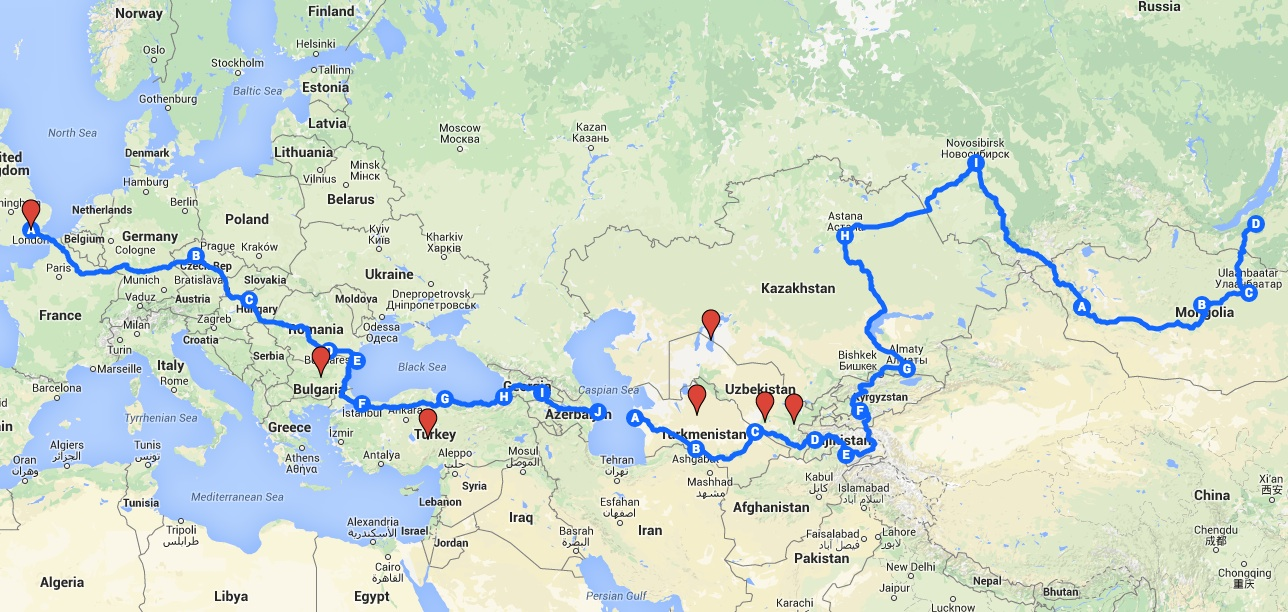
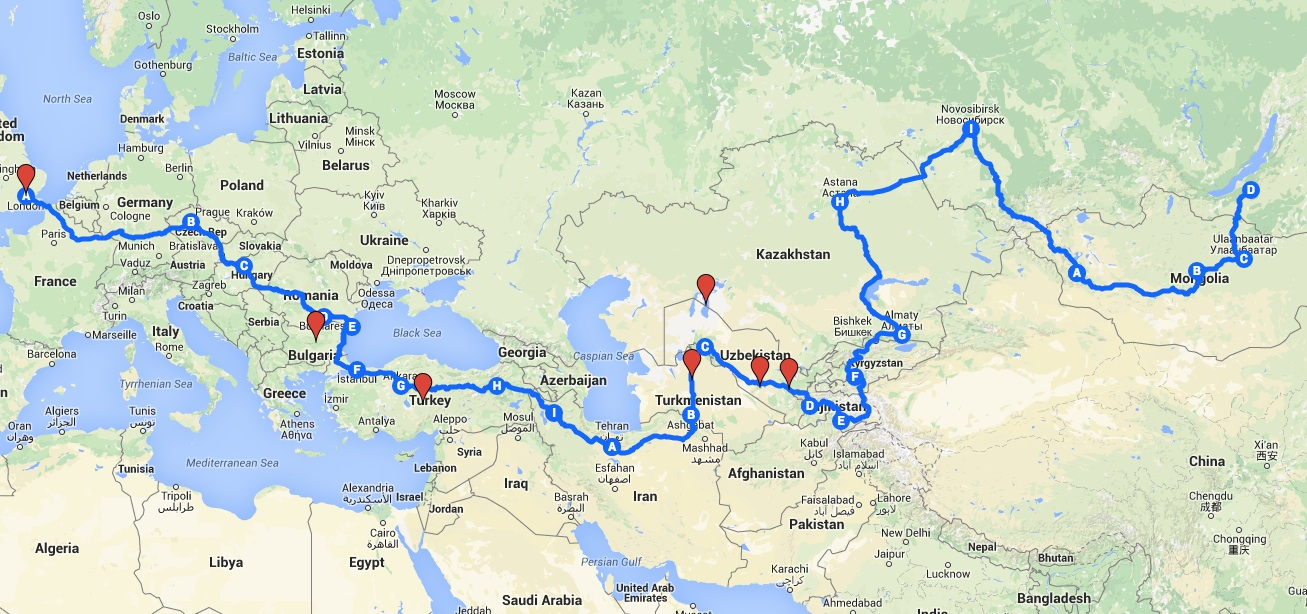
Updating map and tracker link.

diff --git a/index.html b/index.html
@@ -122,13 +122,13 @@ title: Team Yakin' Around
       <div class="col-md-8 col-md-offset-2 text-center">
         <h1>The Route</h1>
         <div>&nbsp;</div>
-        <p class="lead">10.000 miles. 18 countries. 5 mountain ranges. 3 deserts. 1/3 of the world.</p>
+        <p class="lead">10.000 miles. 17 countries. 5 mountain ranges. 3 deserts. 1/3 of the world.</p>
         <div>&nbsp;</div>
         <p class="lead">We will be driving through</p>
-        <p class="lead">England, Belgium, Germany, Czech Republic, Slovakia, Hungary, Romania, Bulgaria, Turkey, Georgia, Azerbaijan, Turkmenistan, Uzbekistan, Tajikistan, Kyrgyzstan, Kazakhstan, Russia and hopefully Mongolia.</p>
+        <p class="lead">England, Belgium, Germany, Czech Republic, Slovakia, Hungary, Romania, Bulgaria, Turkey, Iran, Turkmenistan, Uzbekistan, Tajikistan, Kyrgyzstan, Kazakhstan, Russia and hopefully Mongolia.</p>
         <div>&nbsp;</div>
         <div>&nbsp;</div>
-        <a href="https://www.google.com/maps/d/viewer?mid=zYjjEjbUucog.kzAKAAnMglMw" class="btn btn-yakin btn-lg" target="_blank">See the Map</a>
+        <a href="http://tracker.yakinaround.com/" class="btn btn-yakin btn-lg" target="_blank">See the Tracker</a>
       </div>
     </div>
   </div>
